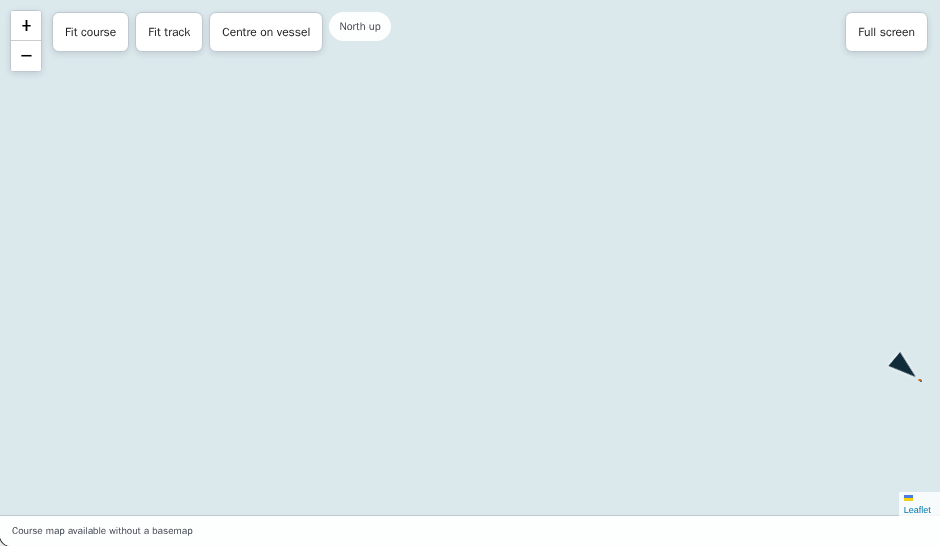
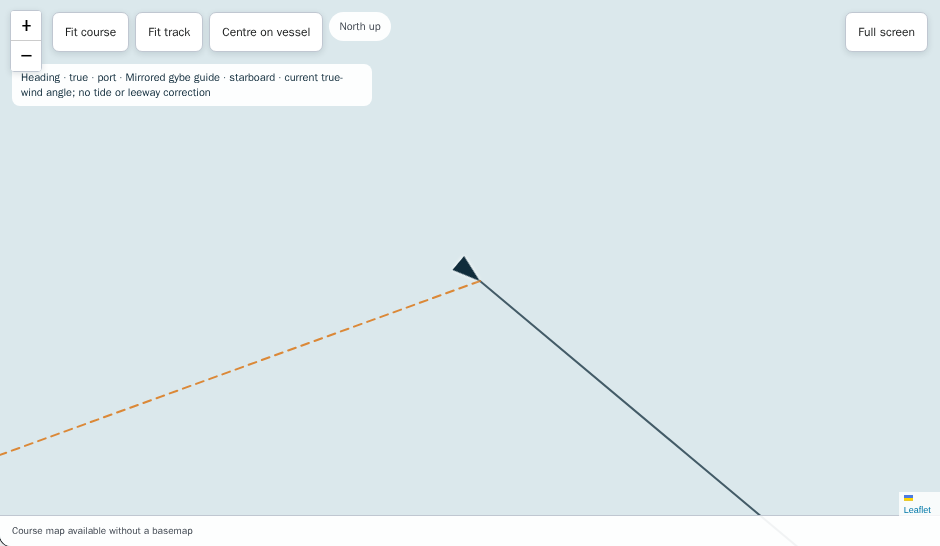
fix: frame first vessel guides without a course and keep legend visible

diff --git a/webapp/style.css b/webapp/style.css
@@ -16,3 +16,5 @@ button,select,input{font:inherit;min-height:44px;border:1px solid var(--line);bo
 
 #finish-trip{min-height:44px;border:1px solid var(--panel-label);border-radius:6px;padding:8px 12px;background:var(--panel-button);color:var(--panel-value);font:inherit;font-size:13px;white-space:nowrap}#finish-trip:disabled{opacity:.5}.tracking-control{flex-wrap:wrap}
 .race-readiness{margin:6px 0;padding:6px 10px;border:1px solid var(--panel-border);border-radius:6px;background:rgba(255,255,255,.03);font-size:11px}.race-readiness[data-navigation-ready="true"]{border-color:var(--panel-accent)}.race-live-nav{display:grid;grid-template-columns:repeat(2,minmax(0,1fr));gap:4px 10px;margin:8px 0}.race-live-nav-item{display:flex;justify-content:space-between;gap:8px;padding:4px 8px;border:1px solid var(--panel-border);border-radius:5px;background:rgba(255,255,255,.02)}.race-live-nav-item[data-available="false"]{opacity:.6}.race-live-nav-item .label{color:var(--panel-label);font-size:10px}.race-live-nav-item .value{color:var(--panel-value);font-size:12px;font-weight:600}
+
+#guide-legend{position:absolute;z-index:500;top:64px;left:12px;right:12px;max-width:360px;padding:6px 9px;border-radius:8px;background:rgba(255,255,255,.94);font-size:11px;color:#102c3b;pointer-events:none}
